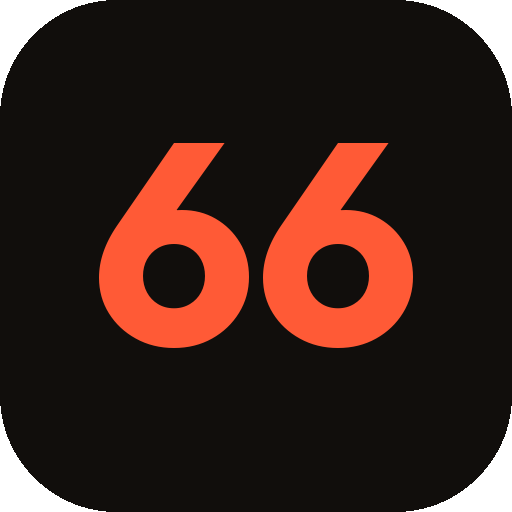
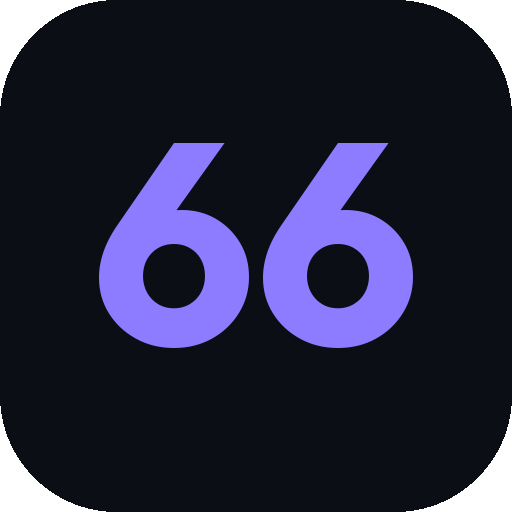
Shift the site from coral to violet and mint.
Recolor the page, icons, and link preview so the palette matches across dark and light.

Changed region(s): [[0.1875, 0.2812, 0.8125, 0.6875]]

diff --git a/assets/play.css b/assets/play.css
@@ -1,32 +1,34 @@
 :root {
-  --bg: #110e0c;
-  --raise: #1c1714;
-  --ink: #f6f0e8;
-  --muted: #b3a69a;
-  --accent: #ff5a36;
-  --amber: #ffb020;
-  --line: rgba(246, 240, 232, 0.1);
-  --shadow: 0 18px 40px rgba(0, 0, 0, 0.28);
+  --bg: #0c0e16;
+  --raise: #161824;
+  --ink: #f3f4fb;
+  --muted: #9aa3bb;
+  --accent: #8d7cff;
+  --amber: #3ee0c5;
+  --on-accent: #14121c;
+  --line: rgba(243, 244, 251, 0.1);
+  --shadow: 0 18px 40px rgba(0, 0, 0, 0.32);
   --glow:
-    radial-gradient(880px 480px at 8% -12%, rgba(255, 90, 54, 0.2), transparent 62%),
-    radial-gradient(640px 420px at 108% 8%, rgba(255, 176, 32, 0.1), transparent 58%);
+    radial-gradient(880px 480px at 8% -12%, rgba(141, 124, 255, 0.28), transparent 62%),
+    radial-gradient(640px 420px at 108% 8%, rgba(62, 224, 197, 0.12), transparent 58%);
   --sans: "Outfit", "Segoe UI", sans-serif;
   --mono: "IBM Plex Mono", ui-monospace, monospace;
   color-scheme: dark;
 }
 
 html[data-theme="light"] {
-  --bg: #f4efe8;
-  --raise: #fffaf4;
-  --ink: #1c1411;
-  --muted: #6d6158;
-  --accent: #ef4d2a;
-  --amber: #d4840a;
-  --line: rgba(28, 20, 17, 0.1);
-  --shadow: 0 16px 36px rgba(90, 48, 24, 0.08);
+  --bg: #f3f4fb;
+  --raise: #ffffff;
+  --ink: #14151f;
+  --muted: #5c657c;
+  --accent: #5b4de0;
+  --amber: #0e9b88;
+  --on-accent: #ffffff;
+  --line: rgba(20, 21, 31, 0.1);
+  --shadow: 0 16px 36px rgba(28, 32, 64, 0.08);
   --glow:
-    radial-gradient(880px 480px at 8% -12%, rgba(255, 90, 54, 0.16), transparent 62%),
-    radial-gradient(640px 420px at 108% 8%, rgba(255, 176, 32, 0.2), transparent 58%);
+    radial-gradient(880px 480px at 8% -12%, rgba(91, 77, 224, 0.14), transparent 62%),
+    radial-gradient(640px 420px at 108% 8%, rgba(14, 155, 136, 0.14), transparent 58%);
   color-scheme: light;
 }
 
@@ -86,7 +88,7 @@ input {
 
 ::selection {
   background: var(--accent);
-  color: #1a0d09;
+  color: var(--on-accent);
 }
 
 .sr-only {
@@ -109,7 +111,7 @@ input {
   padding: 8px 14px;
   border-radius: 999px;
   background: var(--accent);
-  color: #1a0d09;
+  color: var(--on-accent);
   font-weight: 600;
   text-decoration: none;
 }
@@ -153,15 +155,15 @@ input {
 }
 
 .ball[data-tone="0"] {
-  background: radial-gradient(circle at 32% 28%, #ffd4c8, #ff5a36 48%, #b4331c);
+  background: radial-gradient(circle at 32% 28%, #e4dcff, #8d7cff 48%, #4c3bb8);
 }
 
 .ball[data-tone="1"] {
-  background: radial-gradient(circle at 32% 28%, #ffe7b5, #ffb020 50%, #c47a08);
+  background: radial-gradient(circle at 32% 28%, #d9fff6, #3ee0c5 50%, #0e8f7c);
 }
 
 .ball[data-tone="2"] {
-  background: radial-gradient(circle at 32% 28%, #fff, #ffe4d8 45%, #ffb39f);
+  background: radial-gradient(circle at 32% 28%, #fff, #efeaff 45%, #c4b8ff);
 }
 
 .page {
@@ -278,7 +280,7 @@ input {
   border: 0;
   border-radius: 999px;
   background: var(--accent);
-  color: #1a0d09;
+  color: var(--on-accent);
   font-family: var(--mono);
   font-size: 0.75rem;
   cursor: pointer;
@@ -290,8 +292,8 @@ input {
   display: inline-block;
   padding: 3px 8px;
   border-radius: 999px;
-  background: #fff6f1;
-  color: #1a0d09;
+  background: #f4f3ff;
+  color: #14121c;
 }
 
 html[data-theme="light"] .theme-state::after {
@@ -304,7 +306,7 @@ html[data-theme="light"] .theme-state::after {
 
 .theme:focus-visible,
 .back:focus-visible {
-  outline-color: #1a0d09;
+  outline-color: var(--ink);
 }
 
 .board {
@@ -497,7 +499,7 @@ html[data-theme="light"] .theme-state::after {
   padding: 10px 16px;
   border-radius: 999px;
   background: var(--accent);
-  color: #1a0d09;
+  color: var(--on-accent);
   font-weight: 600;
   text-decoration: none;
 }

diff --git a/index.html b/index.html
@@ -16,7 +16,7 @@
       name="description"
       content="Ashh66 is a security analyst. Detection, triage, and the tools built along the way — including 66-Tool."
     />
-    <meta name="theme-color" content="#110e0c" />
+    <meta name="theme-color" content="#0c0e16" />
     <meta name="robots" content="index,follow" />
     <meta property="og:title" content="ashh66 · security analyst" />
     <meta
@@ -43,7 +43,7 @@
       href="https://fonts.googleapis.com/css2?family=IBM+Plex+Mono:wght@400;500&family=Outfit:wght@400;500;600;700&display=swap"
       rel="stylesheet"
     />
-    <link rel="stylesheet" href="assets/play.css?v=4" />
+    <link rel="stylesheet" href="assets/play.css?v=5" />
   </head>
   <body>
     <a class="skip" href="#now">Skip to content</a>
@@ -185,6 +185,6 @@
     </main>
 
     <script src="https://cdnjs.cloudflare.com/ajax/libs/matter-js/0.19.0/matter.min.js" defer></script>
-    <script src="assets/play.js?v=4" defer></script>
+    <script src="assets/play.js?v=5" defer></script>
   </body>
 </html>

diff --git a/404.html b/404.html
@@ -5,7 +5,7 @@
     <meta name="viewport" content="width=device-width, initial-scale=1" />
     <title>Page not found · ashh66</title>
     <meta name="robots" content="noindex" />
-    <meta name="theme-color" content="#110e0c" />
+    <meta name="theme-color" content="#0c0e16" />
     <link rel="icon" href="/assets/favicon.ico" sizes="any" />
     <link rel="icon" type="image/svg+xml" href="/assets/favicon.svg" />
     <link rel="apple-touch-icon" href="/assets/apple-touch-icon.png" />
@@ -16,7 +16,7 @@
       href="https://fonts.googleapis.com/css2?family=IBM+Plex+Mono:wght@400;500&family=Outfit:wght@400;500;600;700&display=swap"
       rel="stylesheet"
     />
-    <link rel="stylesheet" href="assets/play.css?v=3" />
+    <link rel="stylesheet" href="assets/play.css?v=5" />
   </head>
   <body>
     <main class="page">

diff --git a/assets/play.js b/assets/play.js
@@ -8,7 +8,7 @@
   const discordButton = document.getElementById("copy-discord");
   const reduceMotion = window.matchMedia("(prefers-reduced-motion: reduce)").matches;
 
-  const themeColors = { dark: "#110e0c", light: "#f4efe8" };
+  const themeColors = { dark: "#0c0e16", light: "#f3f4fb" };
 
   // Last played. Edit song, artist, and url here when you want the chip to
   // show something current. Leave song and artist blank to hide it.
